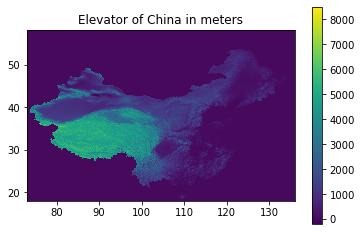
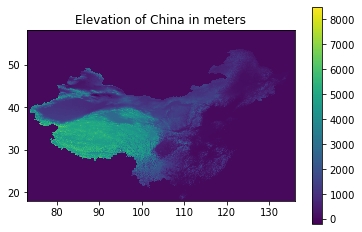
fix mask doc typo

Changed region(s): [[0.2127, 0.0603, 0.6989, 0.1207]]

diff --git a/doc/mask/mask_creation_workflow.md b/doc/mask/mask_creation_workflow.md
@@ -317,7 +317,7 @@ Each mask object has several attributes:
 Show the `slope` layer in mask `china`. The `show` method will always try to show the proper latitude and longitude, unless we call it `show(layer, lat_lon = False)`.
 
 ```python
-show(china.layers['elevation'], title = 'Elevator of China in meters')
+show(china.layers['elevation'], title = 'Elevation of China in meters')
 ```
 ![png](https://github.com/east-winds/geodata/blob/master/images/mask_creation_workflow/output_30_0.png)
 
